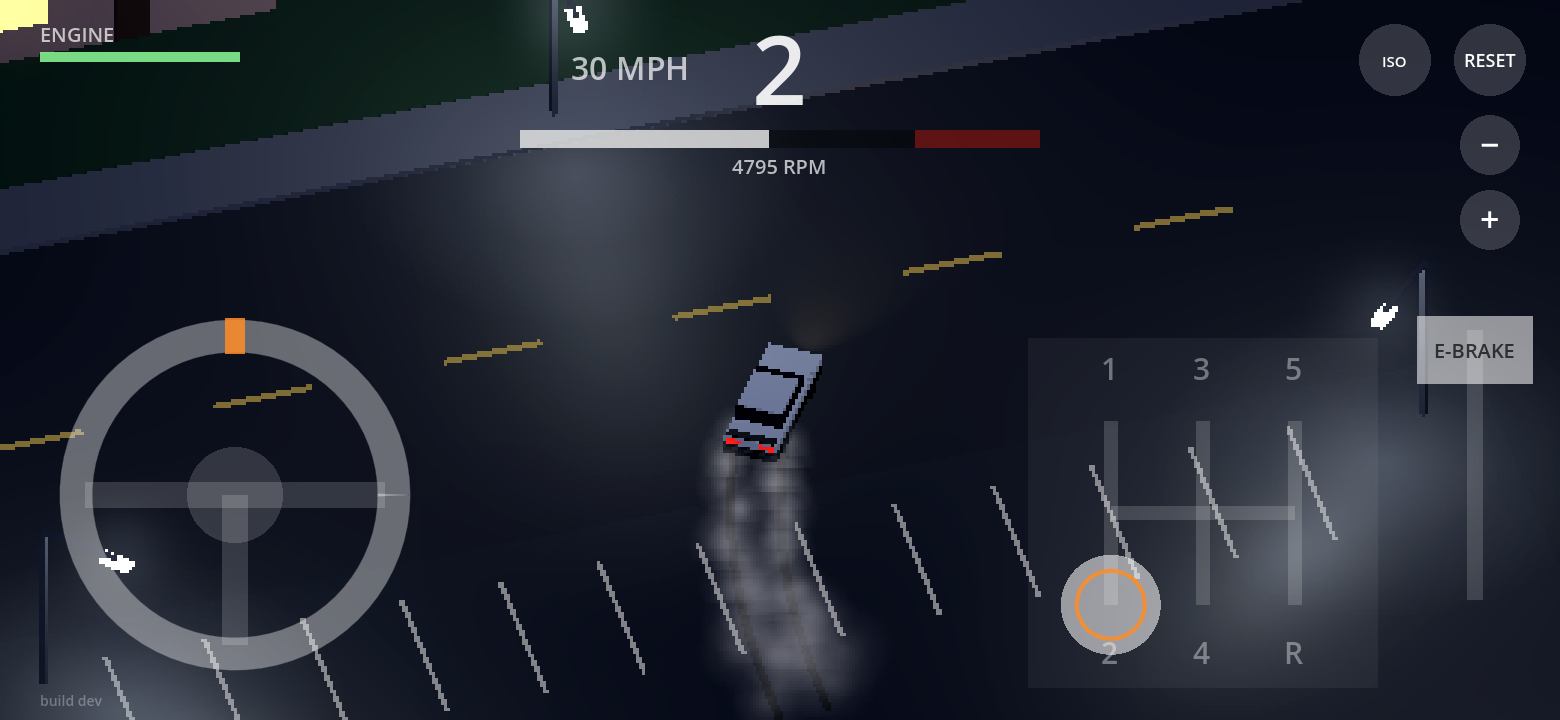
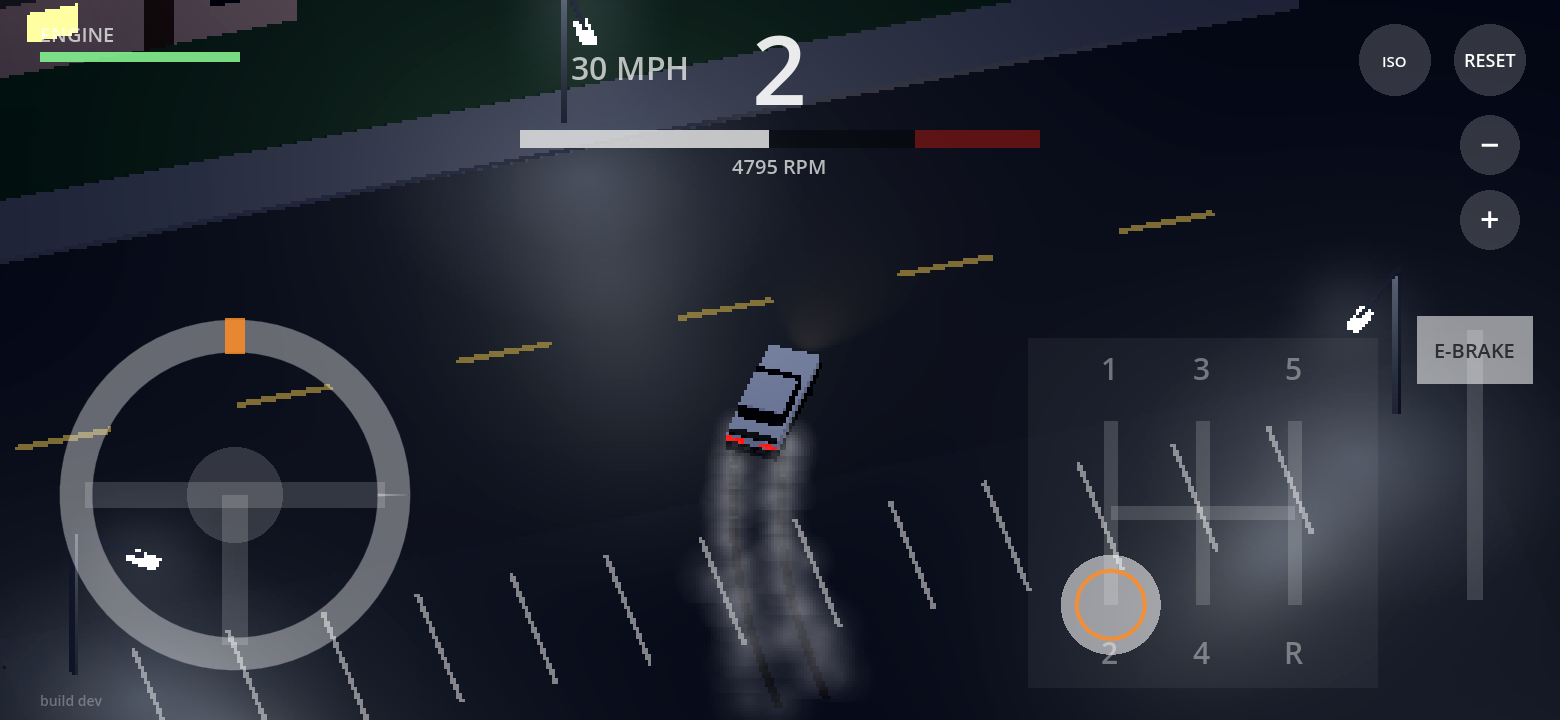
Dynamic camera zoom: close when slow, pulls out with speed and drifting
Pinch/-/+ now set the base (slow) zoom, saved under a new key so everyone
starts from the new close default.

Claude-Session: https://claude.ai/code/session_01X5D3N9oUK59uFhYSHv3wU5

diff --git a/README.md b/README.md
@@ -34,7 +34,7 @@ Built in Godot 4.7.
 | Shift | Drag the knob through the H gate (bottom-right) | 1-5, N or 0, R | R1 up / L1 down |
 | E-brake | Pull the lever down (far right) | Space | B or L2 |
 | Camera | ISO / 3D button (top-right): flat isometric or perspective, both behind the car | V | Select |
-| Zoom | Pinch anywhere empty, or the − / + buttons (top-right) | - / = or mouse wheel | Y / X |
+| Zoom | Automatic: close when slow, pulls out with speed and drifting. Pinch or − / + sets how close it sits when slow | - / = or mouse wheel | Y / X |
 | Reset | RESET (top-right) | Enter | Start |
 
 - **The gas is always on** whenever you're in gear.
